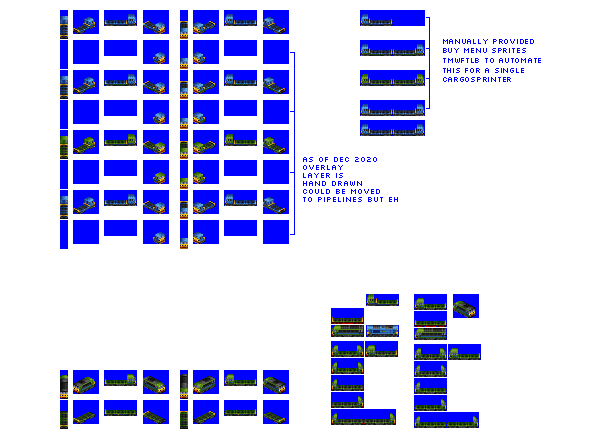
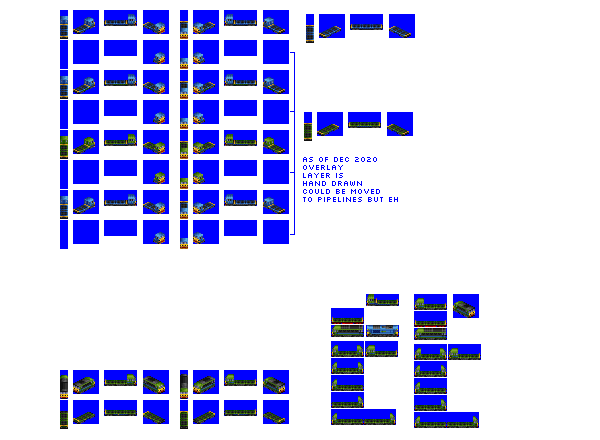
Change: updated sprites complete for Brash cargo sprinter

diff --git a/src/vehicles/pony/brash_cab.py b/src/vehicles/pony/brash_cab.py
@@ -22,7 +22,7 @@ def main(**kwargs):
         gen=5,
         intro_year_offset=3,  # introduce later than gen epoch by design
         liveries=["BANGER_BLUE", "LOWER_LINES", "VAPID_VOYAGER", "INDUSTRIAL_YELLOW"],
-        sprites_complete=False,
+        sprites_complete=True,
     )
 
     model_def.add_unit_def(
@@ -34,7 +34,7 @@ def main(**kwargs):
     )
 
     model_def.define_description("""Runs like the wind.""")
-    model_def.define_foamer_facts("""Windhoff MPV""")
+    model_def.define_foamer_facts("""Windhoff MPV / CargoSprinter""")
 
     result.append(model_def)
 

diff --git a/src/vehicles/pony/brash_middle.py b/src/vehicles/pony/brash_middle.py
@@ -23,7 +23,7 @@ def main(**kwargs):
         gen=5,
         intro_year_offset=3,  # introduce later than gen epoch by design
         liveries=["BANGER_BLUE", "LOWER_LINES", "VAPID_VOYAGER", "INDUSTRIAL_YELLOW"],
-        sprites_complete=False,
+        sprites_complete=True,
     )
 
     model_def.add_unit_def(
@@ -35,7 +35,7 @@ def main(**kwargs):
     )
 
     model_def.define_description("""Runs like the wind.""")
-    model_def.define_foamer_facts("""Windhoff MPV""")
+    model_def.define_foamer_facts("""Windhoff MPV / CargoSprinter""")
 
     result.append(model_def)
 
